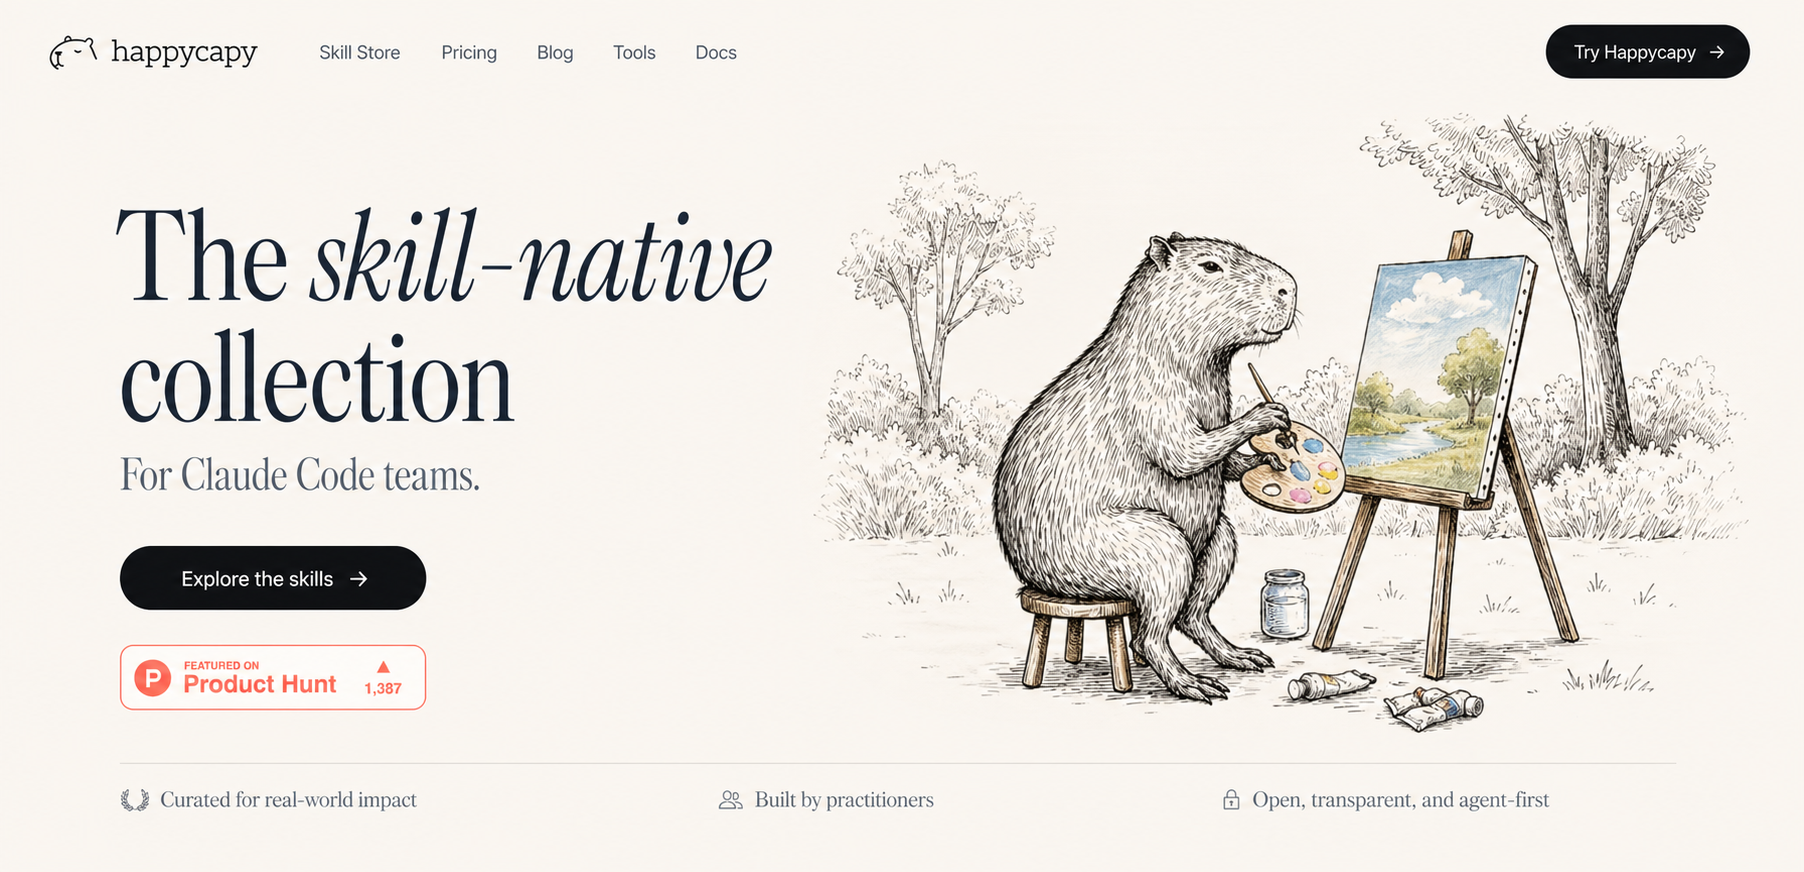
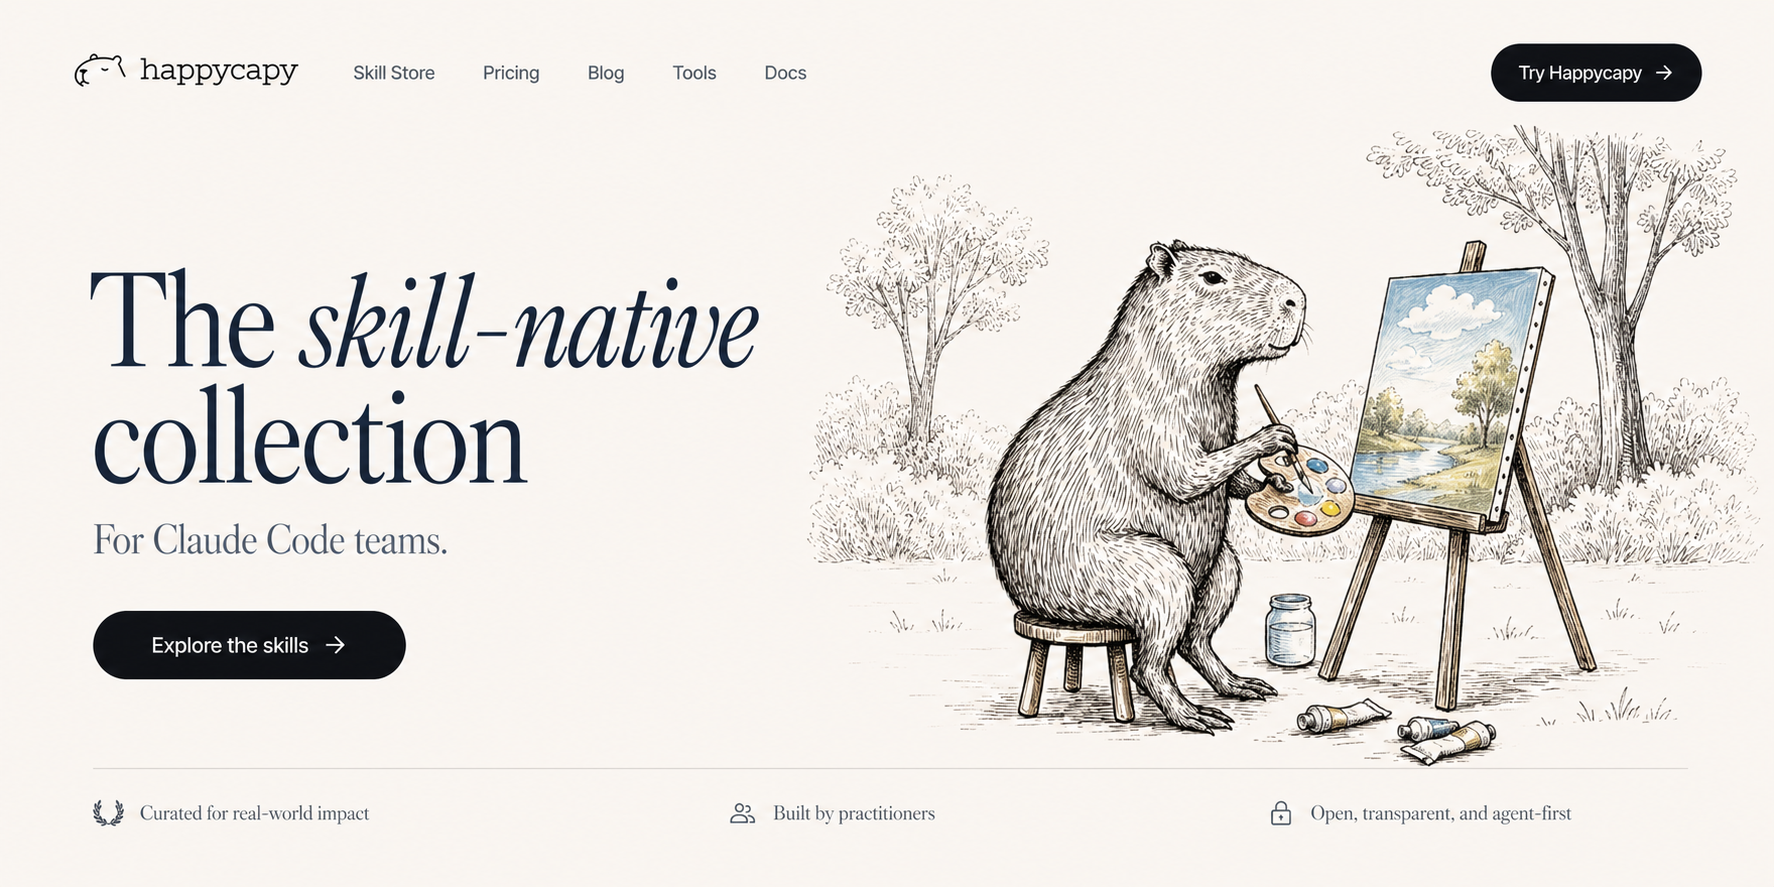
Separate Product Hunt badge from README hero

diff --git a/README.md b/README.md
@@ -22,8 +22,12 @@
 </div>
 
 <p align="center">
+  <img src="./assets/happycapy-skills-hero-gpt-image-2.png" alt="Happycapy Skills hero banner" width="100%" />
+</p>
+
+<p align="center">
   <a href="https://www.producthunt.com/products/happycapy">
-    <img src="./assets/happycapy-skills-hero-gpt-image-2.png" alt="Happycapy Skills hero banner" width="100%" />
+    <img src="./assets/product-hunt-badge.svg" alt="Happycapy on Product Hunt" height="64" />
   </a>
 </p>
 
